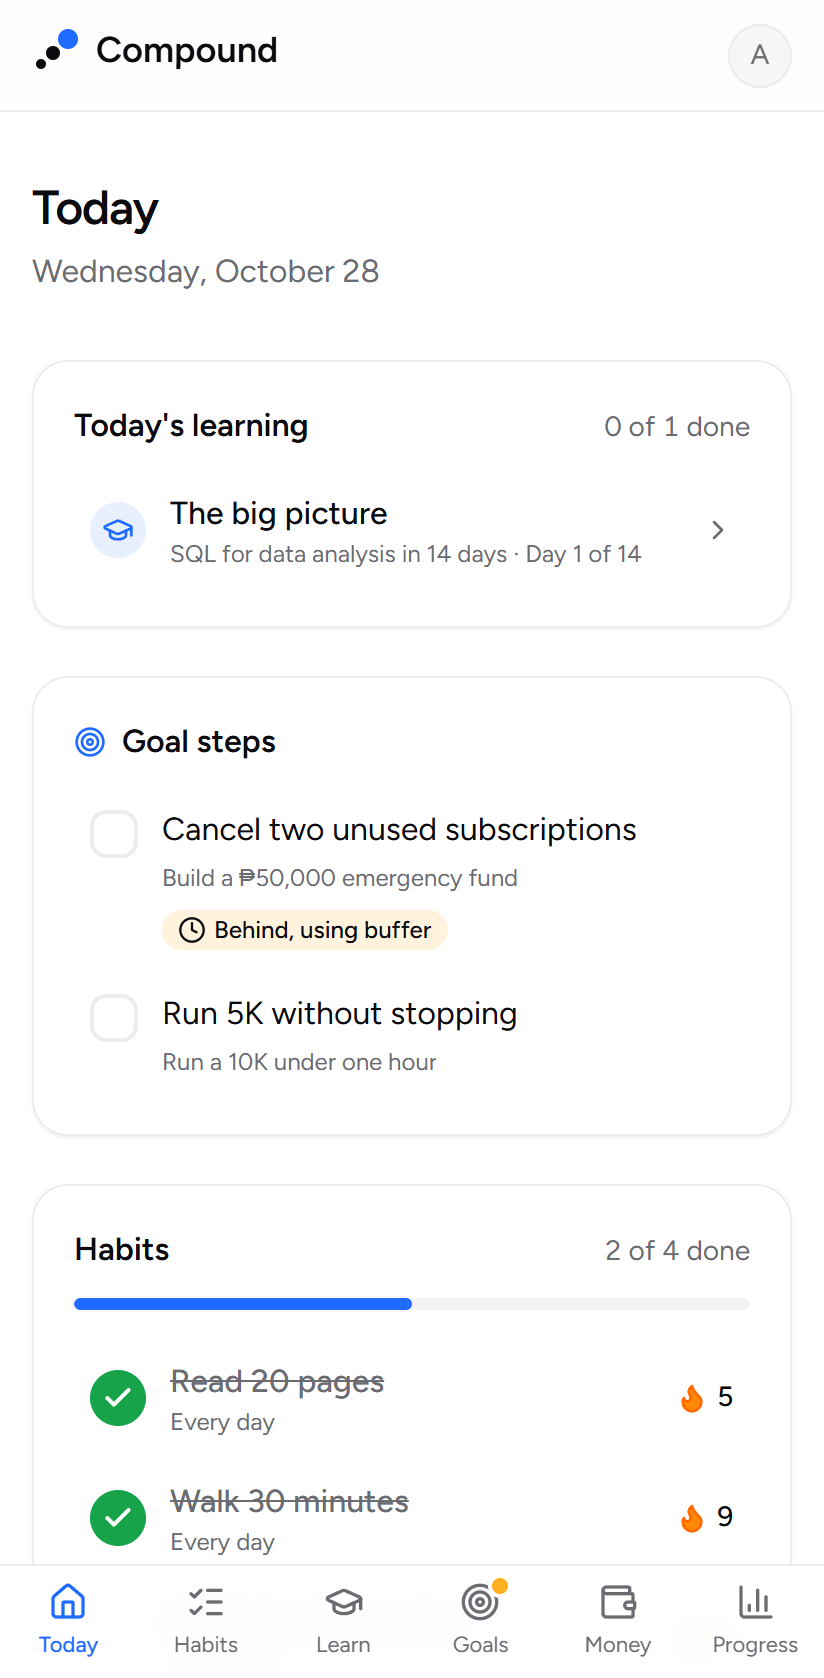
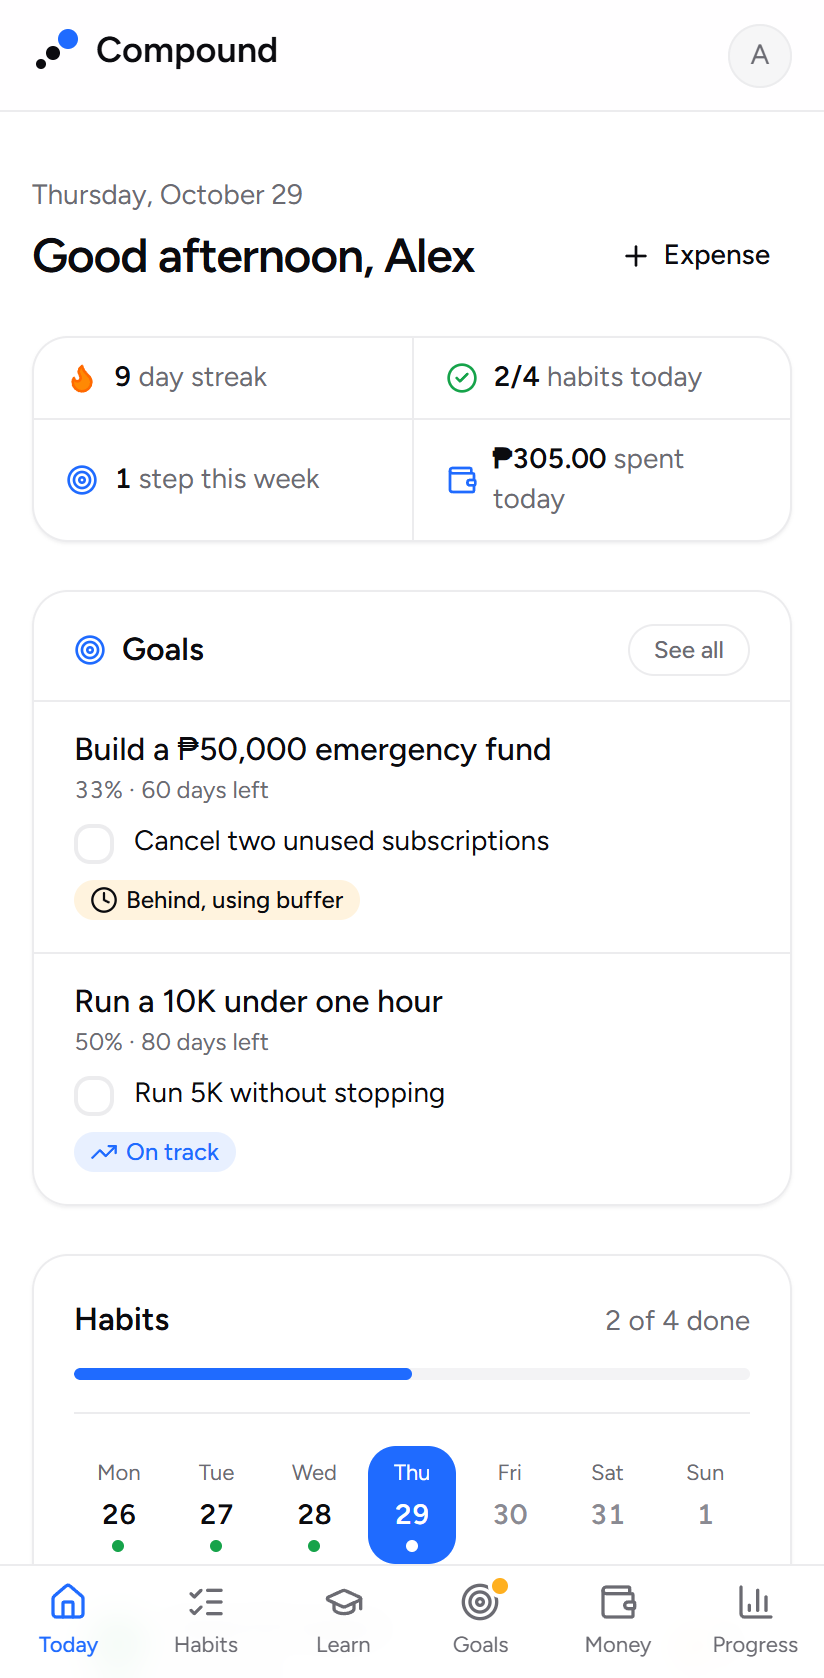
docs: retake README screenshots with the new dashboard

diff --git a/README.md b/README.md
@@ -8,7 +8,7 @@ Compound is a web app for getting 1% better every day. You track daily habits, f
 
 > This is my portfolio project, built in small, deployable steps.
 
-![The Today page: today's lesson, goal steps and habits](docs/screenshots/today.png)
+![The Today dashboard: a greeting, today's numbers, goals with their next step, habits with a week strip, and today's lesson](docs/screenshots/today.png)
 
 ## Modules
 
